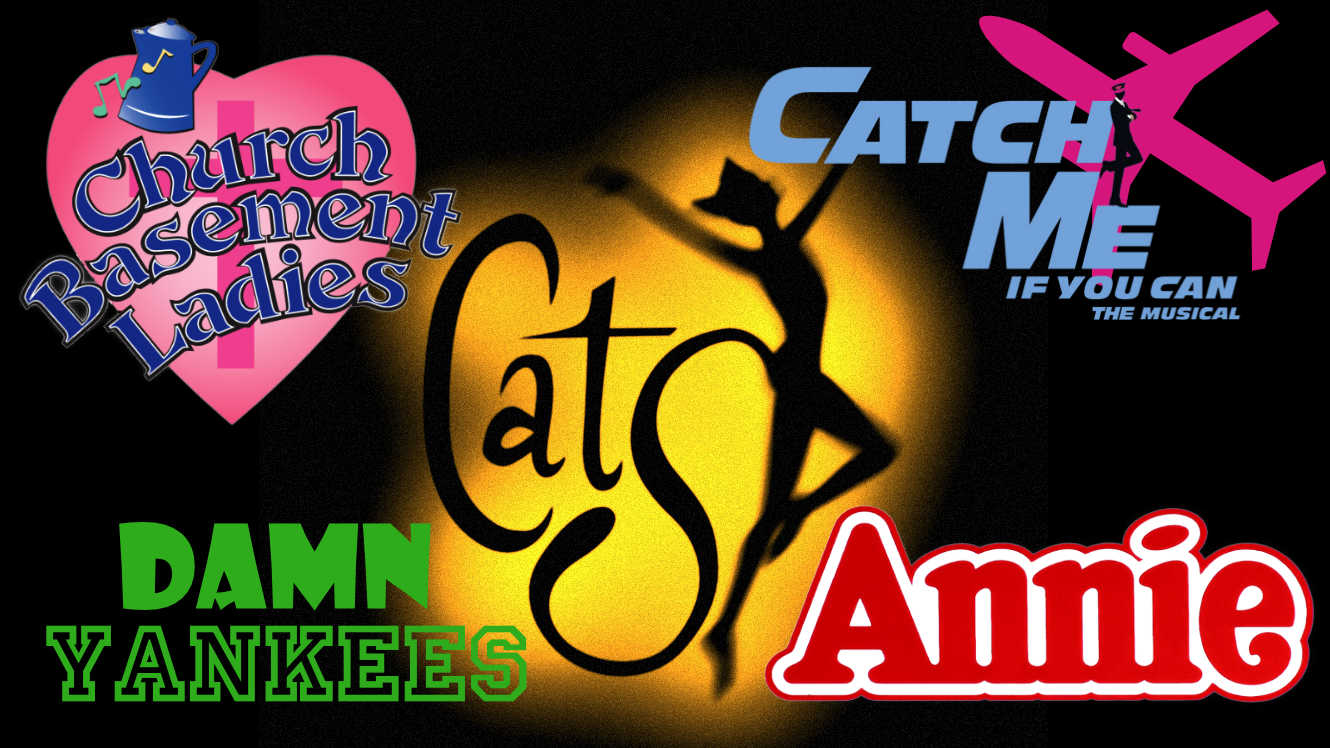
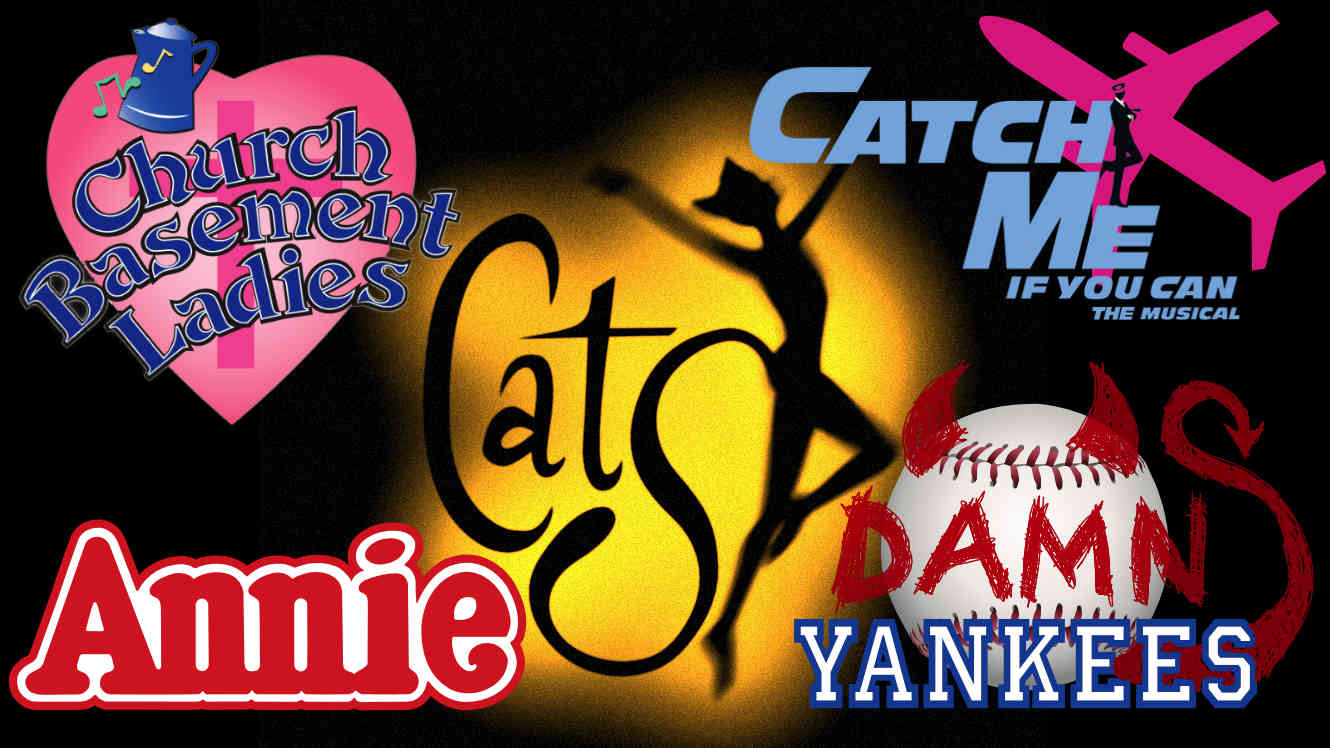
Replace Annie and Damn Yankees artwork

diff --git a/src/routes/news/2019-10-20-announcing-partnership-with-homestake-opera.md b/src/routes/news/2019-10-20-announcing-partnership-with-homestake-opera.md
@@ -26,7 +26,7 @@ We have been in discussions with the fine folks who run the Homestake Opera Hous
 
 <img src="/images/2020/church-basement-ladies.png" alt="" style="max-width: calc(50% - 8px); float: left; margin-right: 16px; margin-bottom: 16px">
 
-<img src="/images/2020/damn-yankees.jpg" alt="" style="max-width: calc(50% - 8px); float: right; margin-bottom: 16px">
+<img src="/images/2020/damn-yankees.png" alt="" style="max-width: calc(50% - 8px); float: right; margin-bottom: 16px">
 
 You can purchase tickets for these performances just like you'd purchase tickets for our regular season: online through our website or by calling our box office. In addition, if you purchase a Season Subscription (either the four or five show variety), you'll be free to choose a performance in Lead as one of your picks if you so desire.
 
